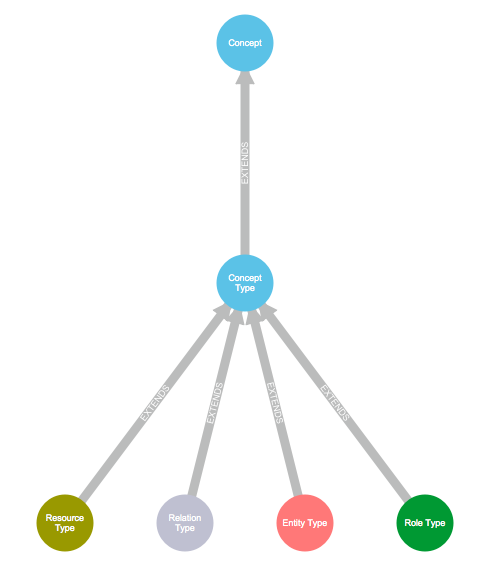
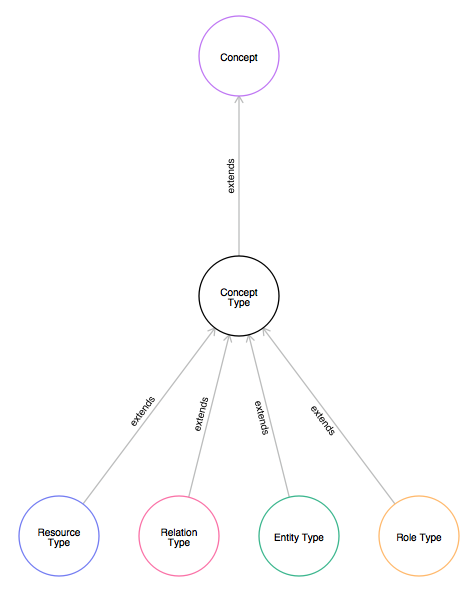
Update images in mindmapsdb basics tutorial to new light ball & stick theme.

diff --git a/public/pages/documentation/the-basics/mindmaps-basics.html b/public/pages/documentation/the-basics/mindmaps-basics.html
@@ -675,7 +675,7 @@ For example, <code class="highlighter-rouge">car isa vehicle</code>.
 <h3 id="roles">Roles</h3>
 <p>We can define the following structure where people can now play the roles of teachers or students:</p>
 
-<p><img src="/images/examples_playsroles.png" alt="A simple example of allowing a Type to play specific Role
+<p><img src="/images/example_playsrole.png" alt="A simple example of allowing a Type to play specific Role
 Types." /></p>
 
 <h3 id="relation-types">Relation Types</h3>
